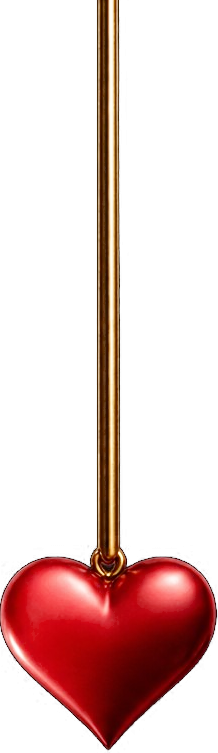
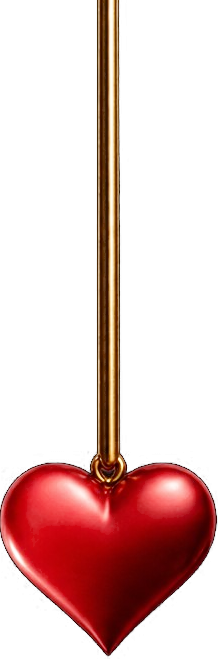
Replay intro as connection-aware loading slide; heart cord pinned to knot end
- Page navigations show the finished logo as a loading slide that
  breathes for a duration chosen from the visitor's effective network
  type (0.9s–2.4s, floor 1200ms / ceiling 2400ms) before gliding to the
  navbar — never the full choreography, never too fast; tap still skips
- Heart pendant recropped so the cord's ink starts at row 0 and is
  re-pinned to the canopy knot's end (top 33%) instead of emerging
  from inside the knot

🤖 Generated with Codebuff

diff --git a/src/App.jsx b/src/App.jsx
@@ -73,7 +73,27 @@ function useScrollReveal(page) {
   }, [page]);
 }
 
-function Intro({ replay, onComplete }) {
+/* Replays are a LOADING slide, not the full choreography: the finished
+   logo appears at once and glides to the navbar. Duration follows the
+   visitor's connection (Network Information API) so it reads as loading
+   on slow links but never drags on fast ones — and is never "too fast". */
+function estimateReplayMs() {
+  const c = typeof navigator !== "undefined"
+    ? (navigator.connection || navigator.mozConnection || navigator.webkitConnection)
+    : null;
+  let ms;
+  switch (c && c.effectiveType) {
+    case "slow-2g":
+    case "2g": ms = 2200; break;
+    case "3g": ms = 1800; break;
+    case "4g": ms = 1400; break;
+    default: ms = 1200; break;
+  }
+  if (c && c.saveData) ms = Math.max(ms, 2000);
+  return Math.min(Math.max(ms, 900), 2400);
+}
+
+function Intro({ replay, replayMs, onComplete }) {
   const ready = useIntroPreload();
 
   // Safety net: if the tab was hidden while the intro ran (browser
@@ -85,21 +105,22 @@ function Intro({ replay, onComplete }) {
     if (!done.current) { done.current = true; onComplete(); }
   }, [onComplete]);
 
-  // Replays are short (≈2s); use the matching tighter safety timeout.
   useEffect(() => {
-    const kill = setTimeout(complete, (replay ? INTRO_REPLAY_MS : INTRO_PLAY_MS) + 600);
+    const limit = replay ? replayMs + 800 : INTRO_PLAY_MS + 600;
+    const kill = setTimeout(complete, limit);
     return () => clearTimeout(kill);
-  }, [complete, replay]);
+  }, [complete, replay, replayMs]);
 
   return (
     <div
-      className={`intro-screen ${replay ? "intro-glass intro-replay" : ""}`}
+      className={`intro-screen ${replay ? "intro-glass intro-quick" : ""}`}
       onClick={replay ? complete : undefined}
       role={replay ? "button" : undefined}
       aria-label={replay ? "Skip intro" : undefined}
     >
       {replay && <span className="intro-skip-hint">Tap to skip</span>}
       <div
+        style={{ "--replay-ms": `${replayMs}ms` }}
         className={ready ? "intro-logo" : "intro-logo intro-paused"}
         onAnimationEnd={(event) => {
           if (
@@ -342,7 +363,6 @@ function Contact() {
 /* ------------------------------------------------------------------ */
 
 const INTRO_PLAY_MS = 5300; // full intro choreography incl. flight to navbar
-const INTRO_REPLAY_MS = 2500; // quick replay between page navigations
 
 export default function App() {
   const page = useHashRoute();
@@ -355,10 +375,12 @@ export default function App() {
   const firstRun = useRef(true);
   useEffect(() => {
     if (firstRun.current) { firstRun.current = false; return; }
+    setReplayMs(estimateReplayMs());
     setIntroReplay(true);
     setIntroDone(false);
   }, [page]);
   const [introReplay, setIntroReplay] = useState(false);
+  const [replayMs, setReplayMs] = useState(() => estimateReplayMs());
 
   useScrollReveal(page);
 
@@ -367,6 +389,7 @@ export default function App() {
       {!introDone && (
         <Intro
           replay={introReplay}
+          replayMs={replayMs}
           onComplete={() => { setIntroDone(true); setIntroReplay(false); }}
         />
       )}

diff --git a/src/App.css b/src/App.css
@@ -60,20 +60,46 @@ a {
   animation: logoFlight 1s cubic-bezier(.65, 0, .25, 1) 4.2s forwards;
 }
 
-/* Quick replay between pages: same choreography compressed to ~2.4s,
-   tapping the stage skips straight to the page. */
-.intro-replay .intro-logo {
-  animation-duration: .6s;
-  animation-delay: 1.8s;
+/* Replay between pages = LOADING SLIDE, not the choreography: the
+   finished logo shows at once, breathes gently for --replay-ms (which
+   follows the visitor's connection speed), then glides to the navbar
+   and hands over to the page. Tapping the stage skips straight away. */
+.intro-quick .intro-logo {
+  opacity: 1;                    /* full logo visible immediately */
+  animation: logoFlight 0.9s cubic-bezier(.65, 0, .25, 1) var(--replay-ms) forwards;
 }
 
-.intro-replay .canopy-right { animation-duration: .4s; animation-delay: .05s; }
-.intro-replay .canopy-left  { animation-duration: .4s; animation-delay: .45s; }
-.intro-replay .signature-word { animation-duration: .3s; animation-delay: .85s; }
-.intro-replay .stories-word   { animation-duration: .3s; animation-delay: 1.05s; }
-.intro-replay .hanging-heart  {
-  animation-duration: .3s, .4s;
-  animation-delay: 1.25s, 1.55s;
+/* Kill the first-load choreography on replay and pin every layer to
+   its final pose so the mark appears whole. */
+.intro-quick .canopy-right,
+.intro-quick .canopy-left {
+  animation: none;
+  clip-path: polygon(0% 0%, 100% 0%, 100% 100%, 0% 100%);
+}
+
+.intro-quick .signature-word,
+.intro-quick .stories-word {
+  animation: none;
+  opacity: 1;
+  transform: translate(-50%, 0);
+}
+
+.intro-quick .hanging-heart {
+  animation: none;
+  opacity: 1;
+  transform: translate(-50%, 0);
+}
+
+/* Gentle breathing while the hold, so it reads as "loading" not "stuck".
+   Uses the `scale` property so it composes with each layer's own
+   translate() instead of clobbering it. */
+.intro-quick .logo-layer {
+  animation: replayBreathe calc(var(--replay-ms) + 1200ms) ease-in-out 0s infinite;
+}
+
+@keyframes replayBreathe {
+  0%, 100% { scale: 1; }
+  50%      { scale: 1.035; }
 }
 
 .intro-skip-hint {
@@ -114,15 +140,13 @@ a {
   height: 40.5%;
 }
 
-/* heart-pendant.png — cord + red heart only. Trimmed a further
-   '.stick too high' sliver off the top (16 more rows), so the cord
-   begins right where the canopy's own knot ends (its cap is baked
-   onto the canopy art at finial y = 23% + row0). Pin top of cord to
-   the knot centre: canopy knot centre sits ≈ 23% + (26/501)*40.5%
-   ≈ 25.1% of canvas. Width reduced to 2.7%. */
+/* heart-pendant.png — cord + red heart only, ink starts at row 0.
+   The canopy's knot (diamond) solidly ends at art row ~124/501, so the
+   cord is re-pinned to START there instead of poking out of the knot's
+   centre: top = 23% + (124/501)*40.5% ≈ 33.0% of the canvas. */
 .hanging-heart {
   left: 50.2%;
-  top: 25%;
+  top: 33%;
   width: 2.7%;
   height: auto;
   transform: translateX(-50%);
